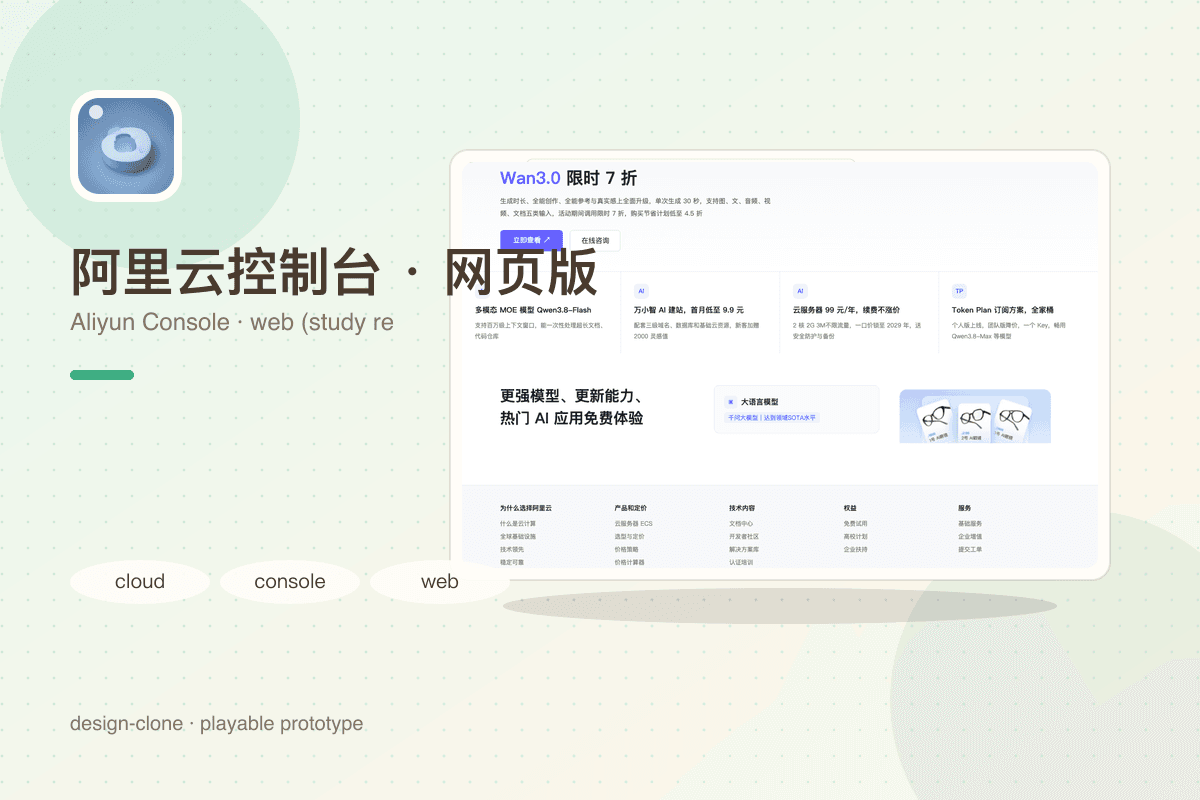
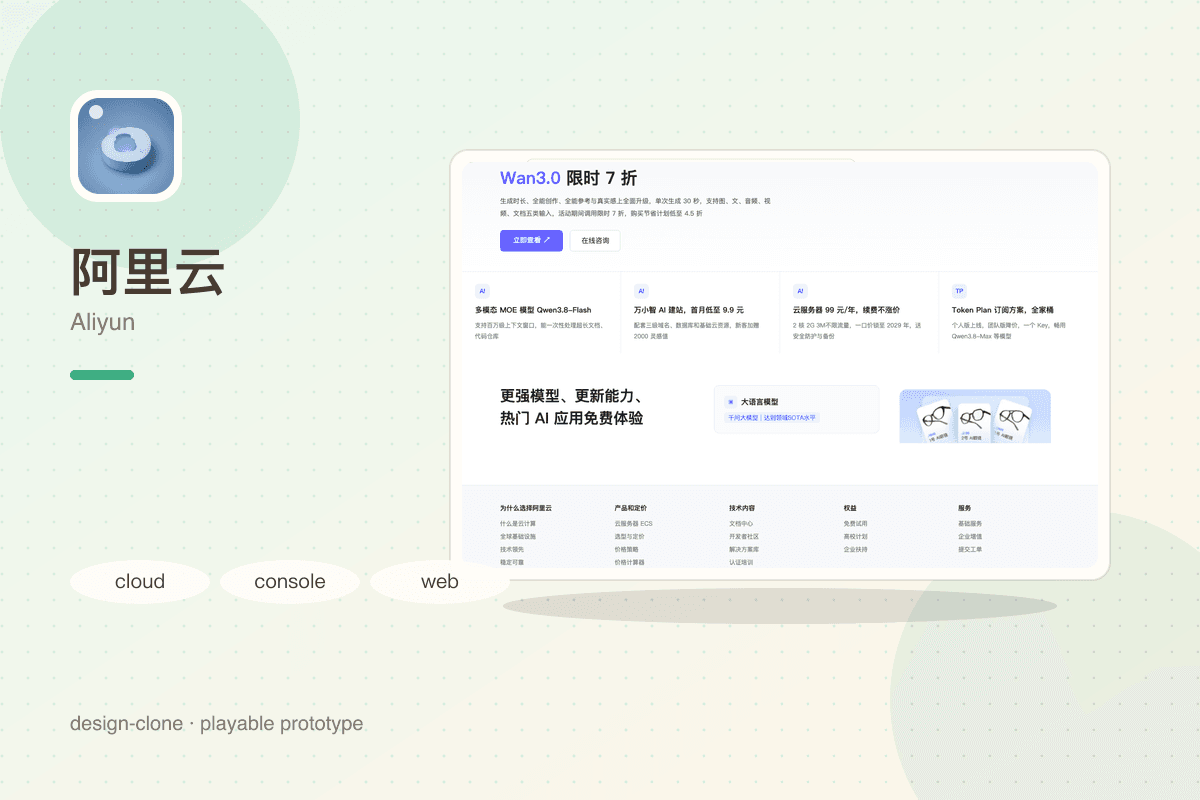
publish(aliyun-console): Aliyun v1.3.0 (#12)

Changed region(s): [[0.1233, 0.3125, 0.3392, 0.4375], [0.37, 0.3125, 0.4933, 0.375], [0.0925, 0.1562, 0.1542, 0.2188]]

diff --git a/aliyun-console/PROVENANCE.md b/aliyun-console/PROVENANCE.md
@@ -1,4 +1,4 @@
-# Aliyun Console · web (study replica) (aliyun-console/undefined)
+# Aliyun (aliyun-console/undefined)
 
 > Unofficial study replica generated with design-clone. All trademarks and brand assets belong to their respective owners; no affiliation or endorsement implied.
 
@@ -7,4 +7,4 @@
 - gates: interact dead=undefined | inspect fail=undefined pass=undefined | ui-smoke fail=undefined pass=undefined
 
 ## Changes
-- v1.2.0: initial publish
+- v1.3.0: initial publish
